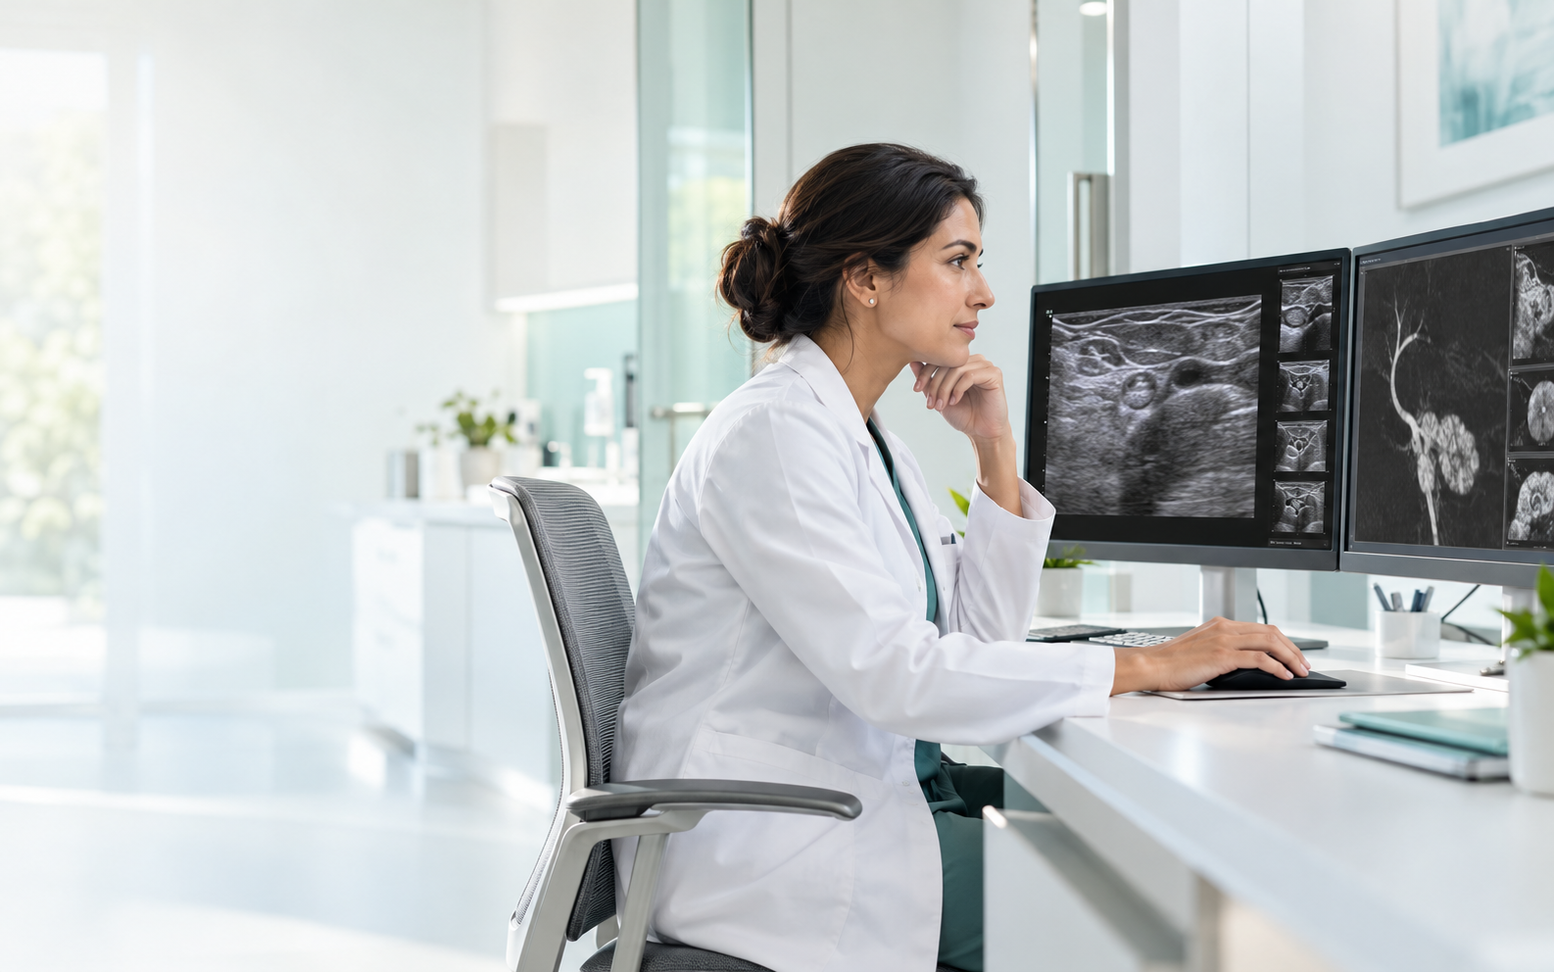
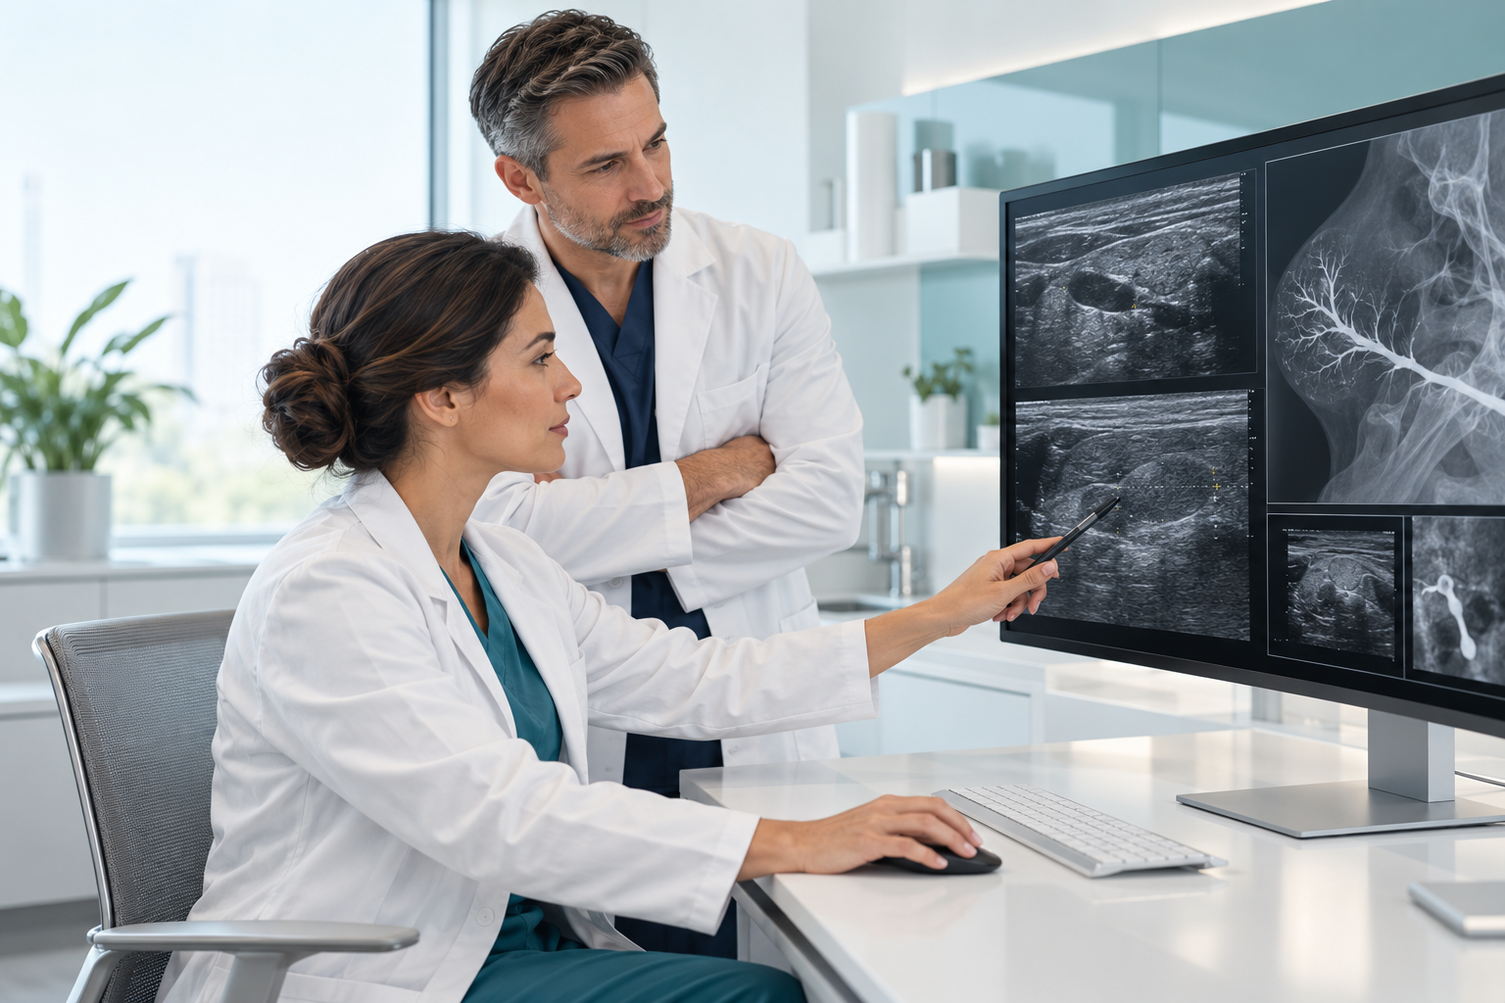
Polish final demo presentation

diff --git a/components/salifusion-app.tsx b/components/salifusion-app.tsx
@@ -103,11 +103,11 @@ export function SaliFusionApp() {
 function revokeExam(exam: GlandExam) { Object.values(exam.ultrasoundUploads).forEach((item) => { if (item?.objectUrl) URL.revokeObjectURL(item.url); }); Object.values(exam.phaseUploads).forEach((item) => { if (item?.objectUrl) URL.revokeObjectURL(item.url); }); exam.cbctImages.forEach((item) => { if (item.objectUrl) URL.revokeObjectURL(item.url); }); }
 
 function Landing({ identity, onIdentity, onEnter }: { identity: { name: string; role: string }; onIdentity: (identity: { name: string; role: string }) => void; onEnter: (event: React.FormEvent) => void }) {
-  return <main className="landing-page"><header className="landing-header"><Brand /><span>Educational decision-support demonstration</span></header><section className="landing-hero"><div className="hero-copy"><span className="eyebrow">Multimodal salivary imaging</span><h1><strong>SaliFusion</strong>Intelligent Salivary<br />Gland Imaging</h1><p>An equipment-integrated, multimodal AI decision-support demonstration combining ultrasound, 2D sialography, and 3D CBCT sialography.</p><form className="demo-entry" onSubmit={onEnter}><div><span>Demo entry</span><b>No clinical authentication is configured</b></div><label>Your demo name<input aria-label="Demo name" required value={identity.name} onChange={(event) => onIdentity({ ...identity, name: event.target.value })} /></label><label>Role<select aria-label="Demo role" value={identity.role} onChange={(event) => onIdentity({ ...identity, role: event.target.value })}><option>Clinician / judge</option><option>Radiologist</option><option>Researcher</option><option>Educator</option></select></label><button type="submit">Enter Clinical Demo <span>→</span></button><small>De-identified fixtures · local file review · educational use only</small></form></div><div className="hero-visual"><Image src="/salifusion-physician-hero.png" alt="Physician reviewing salivary ultrasound and ductal imaging at a bright clinical workstation" width={1536} height={1024} priority /><div className="hero-caption"><span>01</span><p><b>Clinical reasoning, made visible.</b>Five guided journeys from history to independent imaging review and transparent fusion.</p></div></div></section><footer className="landing-footer"><span>Ultrasound replay</span><span>Four-phase sialography</span><span>True DICOM MPR</span><span>Structured PDF reports</span></footer></main>;
+  return <main className="landing-page"><header className="landing-header"><Brand /><span>Educational decision-support demonstration</span></header><section className="landing-hero"><div className="hero-copy"><span className="eyebrow">Multimodal salivary imaging</span><h1><strong>SaliFusion</strong>Intelligent Salivary<br />Gland Imaging</h1><p>An equipment-integrated, multimodal AI decision-support demonstration combining ultrasound, 2D sialography, and 3D CBCT sialography.</p><form className="demo-entry" onSubmit={onEnter}><div><span>Demo entry</span><b>No clinical authentication is configured</b></div><label>Your demo name<input aria-label="Demo name" required value={identity.name} onChange={(event) => onIdentity({ ...identity, name: event.target.value })} /></label><label>Role<select aria-label="Demo role" value={identity.role} onChange={(event) => onIdentity({ ...identity, role: event.target.value })}><option>Clinician / judge</option><option>Radiologist</option><option>Researcher</option><option>Educator</option></select></label><button type="submit">Enter Clinical Demo <span>→</span></button><small>De-identified fixtures · local file review · educational use only</small></form></div><div className="hero-visual"><Image src="/salifusion-physician-hero.png" alt="Female and male clinicians reviewing salivary ultrasound and ductal imaging together at a bright clinical workstation" width={1536} height={1024} priority /><div className="hero-caption"><span>01</span><p><b>Clinical reasoning, made visible.</b>Five guided journeys from history to independent imaging review and transparent fusion.</p></div></div></section><footer className="landing-footer"><span>Ultrasound replay</span><span>Four-phase sialography</span><span>True DICOM MPR</span><span>Structured PDF reports</span></footer></main>;
 }
 
 function CaseSelection({ sessions, identity, onStart, onReset, onHome }: { sessions: Record<CaseId, CaseSession>; identity: { name: string; role: string }; onStart: (id: CaseId) => void; onReset: (id: CaseId) => void; onHome: () => void }) {
-  return <main className="case-selection"><header><button className="brand-button" onClick={onHome}><Brand /></button><div><span>{identity.name}</span><small>{identity.role} · educational session</small></div></header><section className="selection-intro"><span className="section-kicker">Competition demonstration</span><h1>Choose a clinical journey</h1><p>Five focused cases. Each preserves its own history, media, findings, and reports while you move between them.</p></section><div className="case-grid">{COMPETITION_CASES.map((demoCase) => { const session = sessions[demoCase.id]; const touched = session.step !== "history" || Object.keys(session.exams[0].reviewed).length > 0; return <article className="case-card" key={demoCase.id} style={{ "--case-accent": demoCase.accent } as React.CSSProperties}><header><span>Case {demoCase.number}</span><i>{demoCase.badge}</i></header><h2>{demoCase.title}</h2><p>{demoCase.objective}</p><div className="case-route"><span>History</span><i /> <span>Imaging</span><i /> <span>Reports</span></div><div className="case-actions"><button onClick={() => onStart(demoCase.id)}>{touched ? `Continue at ${WORKFLOW_STEPS.find((item) => item.id === session.step)?.label}` : "Start Case"} <span>→</span></button>{touched && <button className="restart" onClick={() => { if (window.confirm(`Restart Case ${demoCase.number}? Local inputs for this case will be cleared.`)) onReset(demoCase.id); }}>Restart Case</button>}</div></article>; })}</div><aside className="selection-note"><b>Scientific responsibility built in</b><p>Preset findings stay labeled as educational references until supporting media is supplied and reviewed. Illustrative scores are never presented as validated probabilities.</p></aside></main>;
+  return <main className="case-selection"><header><button className="brand-button" onClick={onHome}><Brand /></button><div><span>{identity.name}</span><small>{identity.role} · educational session</small></div></header><section className="selection-intro"><span className="section-kicker">Competition demonstration</span><h1>Choose a clinical journey</h1><p>Five focused cases. Each preserves its own history, media, findings, and reports while you move between them.</p></section><div className="case-grid">{COMPETITION_CASES.map((demoCase) => { const session = sessions[demoCase.id]; const touched = session.step !== "history" || Object.keys(session.exams[0].reviewed).length > 0; return <article className="case-card" key={demoCase.id} style={{ "--case-accent": demoCase.accent } as React.CSSProperties}><header><span>Case {demoCase.number}</span><i>Diagnostic review</i></header><h2>Clinical demonstration</h2><p>Structured history, imaging review, and reporting workflow.</p><div className="case-route"><span>History</span><i /> <span>Imaging</span><i /> <span>Reports</span></div><div className="case-actions"><button onClick={() => onStart(demoCase.id)}>{touched ? `Continue at ${WORKFLOW_STEPS.find((item) => item.id === session.step)?.label}` : "Start Case"} <span>→</span></button>{touched && <button className="restart" onClick={() => { if (window.confirm(`Restart Case ${demoCase.number}? Local inputs for this case will be cleared.`)) onReset(demoCase.id); }}>Restart Case</button>}</div></article>; })}</div><aside className="selection-note"><b>Scientific responsibility built in</b><p>Preset findings stay labeled as educational references until supporting media is supplied and reviewed. Illustrative scores are never presented as validated probabilities.</p></aside></main>;
 }
 
 function Brand() { return <span className="brand"><span className="brand-mark">SF</span><span><b>SaliFusion</b><small>Clinical imaging intelligence</small></span></span>; }

diff --git a/components/competition/report-steps.tsx b/components/competition/report-steps.tsx
@@ -22,6 +22,12 @@ const caseFourDraft = "Integrated review of the available sialographic evidence 
 const caseFiveDraft = "The patient's chronic, progressively enlarging, painless right submandibular swelling, in conjunction with sialographic evidence of regional reduced acinarization and ductal displacement/splaying, raises suspicion for a right submandibular gland space-occupying lesion. The source report describes only mild distal Wharton's duct dilatation without a definite obstructive filling defect, and satisfactory contrast evacuation after three minutes. The lesion remains indeterminate on sialography alone. Chronic sclerosing sialadenitis, including possible IgG4-related disease, remains a differential consideration. Targeted ultrasound with Doppler and MRI are recommended for further characterization.";
 const caseTwoCompositeId = "case-02-bilateral-parotid-composite-ultrasound";
 
+function keepVideoSilent(event: React.SyntheticEvent<HTMLVideoElement>) {
+  const video = event.currentTarget;
+  if (!video.muted) video.muted = true;
+  if (video.volume !== 0) video.volume = 0;
+}
+
 type ReportActions = {
   onPreview: (kind: ReportKind) => void;
   onDownload: (kind: ReportKind) => void;
@@ -44,7 +50,7 @@ function CaseTwoModalityReports({ demoCase, session, exam, onPreview, onDownload
   const safety = getDuctalRecommendation(demoCase.id, session.history);
   const sourceKey = `${asset?.url ?? "missing"}|${ready}|${JSON.stringify(session.history)}`;
   return <section className="step-page reports-page case-one-reports case-two-reports"><header className="page-intro"><div><span className="section-kicker">Independent ultrasound assessment</span><h1>Modality Reports</h1><p>Case 02 comparative B-mode and Doppler findings remain reportable without contrast sialography.</p></div><ReportStatus state={actionState} /></header><div className="case-report-grid">
-    <article className="clinical-report-card ready case-two-ultrasound-report"><ReportHeader code="US" title="Bilateral Parotid Ultrasound and Doppler Report" status={ready ? "Clinician Reviewed · PDF Ready" : asset ? "Educational Draft PDF — Not Yet Clinician Reviewed" : "Educational Draft · Image verification has not occurred"} /><div className="report-identity-line"><span>Case 02</span><span>Bilateral parotid comparison</span><span>Single four-panel source</span><span>B-mode + Doppler Imaging</span></div><div className="report-media-feature">{asset ? <video src={asset.url} muted controls preload="metadata" aria-label="Case 2 composite ultrasound video" /> : <MissingMedia text="The clinical MOV is not bundled in this deployment. This educational draft explicitly records that image verification has not occurred." />}<small>Original composite examination · four mapped source quadrants</small></div>
+    <article className="clinical-report-card ready case-two-ultrasound-report"><ReportHeader code="US" title="Bilateral Parotid Ultrasound and Doppler Report" status={ready ? "Clinician Reviewed · PDF Ready" : asset ? "Educational Draft PDF — Not Yet Clinician Reviewed" : "Educational Draft · Image verification has not occurred"} /><div className="report-identity-line"><span>Case 02</span><span>Bilateral parotid comparison</span><span>Single four-panel source</span><span>B-mode + Doppler Imaging</span></div><div className="report-media-feature">{asset ? <video src={asset.url} muted controls preload="metadata" onLoadedMetadata={keepVideoSilent} onVolumeChange={keepVideoSilent} aria-label="Case 2 composite ultrasound video" /> : <MissingMedia text="The clinical MOV is not bundled in this deployment. This educational draft explicitly records that image verification has not occurred." />}<small>Original composite examination · four mapped source quadrants</small></div>
       {reportOpen && <div className="expanded-report-body"><ReportSection title="Clinical context" text={demoCase.clinicalSummary} /><ReportSection title="Comparative ultrasound interpretation" text={demoCase.ultrasound.interpretation} /><ReportSection title="Limitations" items={demoCase.ultrasound.limitations} /><ReportSection title="Safety status" text={`${safety.title}. ${safety.explanation}`} /></div>}
       <ReportControlRow kind="ultrasound" available viewOpen={reportOpen} onView={() => setReportOpen((current) => !current)} onPreview={onPreview} onDownload={onDownload} />
       {!ready && <Prerequisite actionLabel={asset ? "Review Findings to Finalize Report" : "Open Imaging"} onClick={() => onOpenImaging("ultrasound")}>{asset ? "The video is loaded, but clinician verification is intentionally not restored automatically." : "Load the single Case 2 composite video in Step 2, then review and confirm the educational reference findings."}</Prerequisite>}
@@ -70,7 +76,7 @@ function CaseOneModalityReports({ demoCase, session, exam, onPreview, onDownload
         <ReportHeader code="US" title="Ultrasound Report" status={ultrasoundReady ? "Clinician Reviewed · PDF Ready" : ultrasoundHasMedia ? "Educational Draft PDF — Not Yet Clinician Reviewed" : "Educational Draft · Image verification has not occurred"} />
         <div className="report-identity-line"><span>Case {demoCase.number}</span><span>{identity}</span><span>Ultrasound B-mode</span></div>
         <div className="report-media-feature">
-          {ultrasoundAsset ? ultrasoundAsset.kind === "video" ? <video src={ultrasoundAsset.url} muted controls preload="metadata" aria-label={`Case ${demoCase.number} representative ultrasound video`} /> : <img src={ultrasoundAsset.url} alt={`${identity} ultrasound`} /> : <MissingMedia text="Ultrasound media is not available in this browser session. Restore the built-in study or import replacement media in Step 2." />}
+          {ultrasoundAsset ? ultrasoundAsset.kind === "video" ? <video src={ultrasoundAsset.url} muted controls preload="metadata" onLoadedMetadata={keepVideoSilent} onVolumeChange={keepVideoSilent} aria-label={`Case ${demoCase.number} representative ultrasound video`} /> : <img src={ultrasoundAsset.url} alt={`${identity} ultrasound`} /> : <MissingMedia text="Ultrasound media is not available in this browser session. Restore the built-in study or import replacement media in Step 2." />}
           <small>{identity} - B-mode Ultrasound</small>
         </div>
         {openReport === "ultrasound" && <div className="expanded-report-body">

diff --git a/components/competition/imaging-step.tsx b/components/competition/imaging-step.tsx
@@ -19,6 +19,12 @@ const caseOnePhaseSlots: Record<SialographyPhase, string> = { precontrast: "case
 const caseOneSlotPhases = Object.fromEntries(Object.entries(caseOnePhaseSlots).map(([phase, slot]) => [slot, phase])) as Record<string, SialographyPhase>;
 const caseOneAllowedSlots = [caseOneUltrasoundId, ...Object.values(caseOnePhaseSlots)];
 
+function keepVideoSilent(event: React.SyntheticEvent<HTMLVideoElement>) {
+  const video = event.currentTarget;
+  if (!video.muted) video.muted = true;
+  if (video.volume !== 0) video.volume = 0;
+}
+
 export function ImagingStep({ demoCase, session, exam, onSession, onExam, onAddExam, onRemoveExam }: {
   demoCase: CompetitionCase; session: CaseSession; exam: GlandExam; onSession: (session: CaseSession) => void; onExam: (exam: GlandExam) => void; onAddExam: () => void; onRemoveExam: () => void;
 }) {
@@ -381,7 +387,7 @@ function CaseTwoUltrasoundWorkspace({ demoCase, session, exam, onSession }: { de
     <div className="case-two-view-tabs" role="tablist" aria-label="Composite ultrasound panel navigation">{caseTwoViews.map((item) => <button key={item.id} role="tab" aria-selected={view === item.id} className={view === item.id ? "active" : ""} onClick={() => setView(item.id)}><b>{item.label}</b><small>{item.detail}</small></button>)}</div>
     <div ref={stageRef} className={`case-two-composite-stage region-${activeView.region}`} data-testid="case-two-composite-stage">
       <div className="scan-header"><span><i /> Prerecorded Educational Ultrasound Replay</span><div>{activeView.label} · extracted from the same original composite video</div></div>
-      {asset ? <div className="case-two-video-viewport"><video ref={videoRef} src={asset.url} controls={view === "full"} playsInline preload="metadata" onLoadedMetadata={(event) => { setDuration(event.currentTarget.duration || 0); event.currentTarget.playbackRate = Number(speed); }} onTimeUpdate={(event) => setCurrentTime(event.currentTarget.currentTime)} /></div> : <div className="empty-media"><div className="scan-lines" /><span>Composite ultrasound video awaiting local import</span><small>Expected source: one simultaneous four-panel recording</small></div>}
+      {asset ? <div className="case-two-video-viewport"><video ref={videoRef} src={asset.url} muted controls={view === "full"} playsInline preload="metadata" onLoadedMetadata={(event) => { keepVideoSilent(event); setDuration(event.currentTarget.duration || 0); event.currentTarget.playbackRate = Number(speed); }} onVolumeChange={keepVideoSilent} onTimeUpdate={(event) => setCurrentTime(event.currentTarget.currentTime)} /></div> : <div className="empty-media"><div className="scan-lines" /><span>Composite ultrasound video awaiting local import</span><small>Expected source: one simultaneous four-panel recording</small></div>}
     </div>
     <div className="playback-bar case-two-playback"><button onClick={() => void videoRef.current?.play()} disabled={!asset}>Play</button><button onClick={() => videoRef.current?.pause()} disabled={!asset}>Pause</button><button onClick={() => { if (videoRef.current) { videoRef.current.currentTime = 0; void videoRef.current.play(); } }} disabled={!asset}>Replay</button><label className="case-two-timeline"><span>Timeline</span><input aria-label="Case 2 video timeline" type="range" min="0" max={duration || 0} step="0.01" value={Math.min(currentTime, duration || 0)} disabled={!asset} onChange={(event) => { const time = Number(event.target.value); setCurrentTime(time); if (videoRef.current) videoRef.current.currentTime = time; }} /></label><button onClick={captureFrame} disabled={!asset}>Capture representative frame</button><button onClick={() => void stageRef.current?.requestFullscreen()} disabled={!asset}>Enlarge</button><label>Speed<select aria-label="Playback speed" value={speed} onChange={(event) => { setSpeed(event.target.value); if (videoRef.current) videoRef.current.playbackRate = Number(event.target.value); }}><option value="0.5">0.5×</option><option value="1">1×</option><option value="1.5">1.5×</option><option value="2">2×</option></select></label></div>
     <div className="case-two-panel-map" aria-label="Case 2 quadrant mapping"><article><span>Upper-left</span><b>Right Parotid — B-mode</b><p>Relatively homogeneous reference parenchyma.</p></article><article><span>Upper-right</span><b>Right Parotid — Doppler Imaging</b><p>Comparatively less conspicuous vascular signal.</p></article><article><span>Lower-left</span><b>Left Parotid — B-mode</b><p>Rounded hypoechoic areas and heterogeneous appearance.</p></article><article><span>Lower-right</span><b>Left Parotid — Doppler Imaging</b><p>More conspicuous vascular signals than the right gland.</p></article></div>
@@ -395,7 +401,7 @@ function CaseTwoAnalysisPanel({ demoCase, hasMedia, reviewed, verified, onReview
 
 function MediaPane({ asset, slotLabel, videoRef, speed = 1 }: { asset?: UploadedAsset; slotLabel: string; videoRef?: React.RefObject<HTMLVideoElement | null>; speed?: number }) {
   if (!asset) return <div className="empty-media"><div className="scan-lines" /><span>Educational clip awaiting upload</span><small>{slotLabel}</small></div>;
-  return <div className="media-pane"><span className="media-label">{slotLabel}</span>{asset.kind === "video" ? <video ref={videoRef} src={asset.url} controls playsInline preload="metadata" onLoadedMetadata={(event) => { event.currentTarget.playbackRate = speed; }} /> : <Image src={asset.url} alt={slotLabel} width={1200} height={800} unoptimized style={{ width: "100%", height: "100%", objectFit: "contain" }} />}</div>;
+  return <div className="media-pane"><span className="media-label">{slotLabel}</span>{asset.kind === "video" ? <video ref={videoRef} src={asset.url} muted controls playsInline preload="metadata" onLoadedMetadata={(event) => { keepVideoSilent(event); event.currentTarget.playbackRate = speed; }} onVolumeChange={keepVideoSilent} /> : <Image src={asset.url} alt={slotLabel} width={1200} height={800} unoptimized style={{ width: "100%", height: "100%", objectFit: "contain" }} />}</div>;
 }
 
 function SialographyWorkspace({ demoCase, exam, recommendation, onExam }: { demoCase: CompetitionCase; exam: GlandExam; recommendation: ReturnType<typeof getDuctalRecommendation>; onExam: (exam: GlandExam) => void }) {

diff --git a/tests/e2e/salifusion-flow.spec.ts b/tests/e2e/salifusion-flow.spec.ts
@@ -25,9 +25,26 @@ async function syntheticVideo(page: import("@playwright/test").Page) {
   return Buffer.from(bytes);
 }
 
+async function expectSilentVideo(video: import("@playwright/test").Locator) {
+  await expect.poll(() => video.evaluate((node: HTMLVideoElement) => ({ muted: node.muted, volume: node.volume }))).toEqual({ muted: true, volume: 0 });
+}
+
+test("landing hero presents a two-clinician consultation", async ({ page }) => {
+  await page.goto("/");
+  const hero = page.getByAltText("Female and male clinicians reviewing salivary ultrasound and ductal imaging together at a bright clinical workstation");
+  await expect(hero).toBeVisible();
+  await expect(hero).toHaveAttribute("src", /salifusion-physician-hero/);
+  await expect.poll(() => hero.evaluate((image: HTMLImageElement) => image.complete && image.naturalWidth > 0 && image.naturalHeight > 0)).toBe(true);
+});
+
 test("approved landing entry exposes exactly five focused cases and editable history", async ({ page }) => {
   await enterDemo(page);
-  await expect(page.locator(".case-card")).toHaveCount(5);
+  const cards = page.locator(".case-card");
+  await expect(cards).toHaveCount(5);
+  await expect(cards.locator("header > span")).toHaveText(["Case 01", "Case 02", "Case 03", "Case 04", "Case 05"]);
+  await expect(cards.locator("h2")).toHaveText(Array(5).fill("Clinical demonstration"));
+  await expect(cards.locator(":scope > p")).toHaveText(Array(5).fill("Structured history, imaging review, and reporting workflow."));
+  await expect(page.locator("main.case-selection")).not.toContainText(/Sialolithiasis|Parotitis|Sjögren|Obstructive Duct Disease|Space-Occupying Lesion/i);
   await page.locator(".case-card").first().getByRole("button", { name: /Start Case/ }).click();
   await expect(page.getByRole("heading", { name: "Patient history" })).toBeVisible();
   await page.getByLabel("Patient age").fill("43");
@@ -68,6 +85,7 @@ test("case one built-in media, fusion, and image-bearing reports remain connecte
   await expect(page.getByText(/Built-in Clinical Demo Media · Ultrasound ready · 4\/4 sialography phases ready/)).toBeVisible();
   const video = page.locator("video");
   await expect(video).toHaveAttribute("src", /\/demo-cases\/case-01\/left-submandibular-ultrasound\.mp4$/);
+  await expectSilentVideo(video);
   await page.getByRole("button", { name: "Play / Pause" }).click();
   await expect.poll(() => video.evaluate((node: HTMLVideoElement) => node.currentTime)).toBeGreaterThan(0);
   await page.getByRole("button", { name: "Review educational reference findings" }).click();
@@ -233,6 +251,7 @@ test("case two uses one built-in composite video for four views, independent rep
   await page.getByLabel("Switch gland examination").selectOption({ index: 1 });
   const video = page.locator(".case-two-video-viewport video");
   await expect(video).toHaveAttribute("src", /\/demo-cases\/case-02\/bilateral-parotid-composite-ultrasound\.mp4$/);
+  await expectSilentVideo(video);
   await expect(page.getByRole("tab", { name: /Full Comparison/ })).toHaveAttribute("aria-selected", "true");
   await page.getByRole("tab", { name: /Left B-mode/ }).click();
   await expect(page.getByTestId("case-two-composite-stage")).toHaveClass(/region-lower-left/);
@@ -367,6 +386,7 @@ test("case three preloads right-sided media and completes modality, fusion, and 
   await page.getByRole("button", { name: /Continue to Imaging/ }).click();
   const video = page.locator("video");
   await expect(video).toHaveAttribute("src", /\/demo-cases\/case-03\/right-parotid-ultrasound\.mp4$/);
+  await expectSilentVideo(video);
   await expect(page.getByText(/Built-in Clinical Demo Media is served from this protected Preview/)).toBeVisible();
   await page.getByRole("button", { name: "Play / Pause" }).click();
   await expect.poll(() => video.evaluate((node: HTMLVideoElement) => node.currentTime)).toBeGreaterThan(0);
